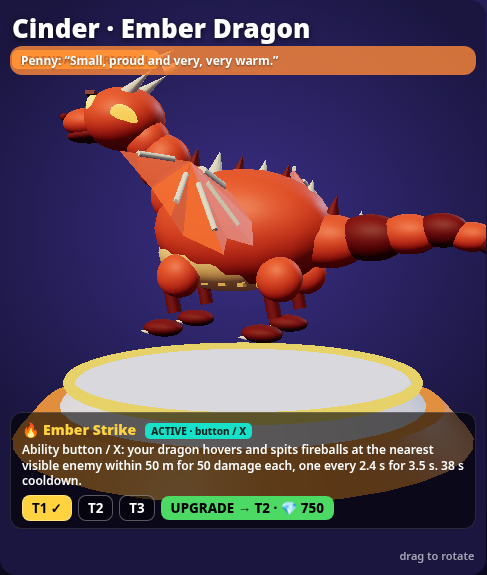
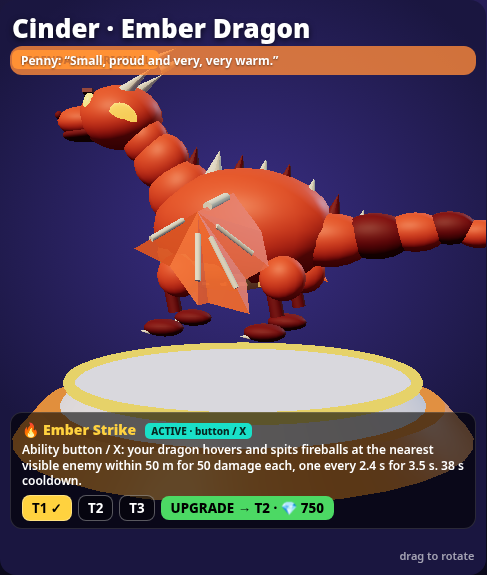
v94: pet tiers + Shadow Bat flight + Ember Dragon fire strike (batch 1 shipped)

diff --git a/ASSETS.md b/ASSETS.md
@@ -83,3 +83,6 @@ No new third-party assets. The 16 named areas of Skyline Island (Neon City, Infe
 
 ## v93: ambient life
 No new third-party assets. The airliners, contrails, helicopters, bird flocks, bats, deer and rabbits are generated in code (original low-poly shapes). Any future CC0/CC-BY models will be listed here.
+
+## v94 — Pet tiers + active abilities (batch 1)
+No third-party assets. Shadow Bat ("Nyx") and Ember Dragon ("Cinder") are original in-code models (`petmodels.js`, `petkit.js`: membrane wings, glowing eyes, T2 halo, T3 spark aura). All code is original.
